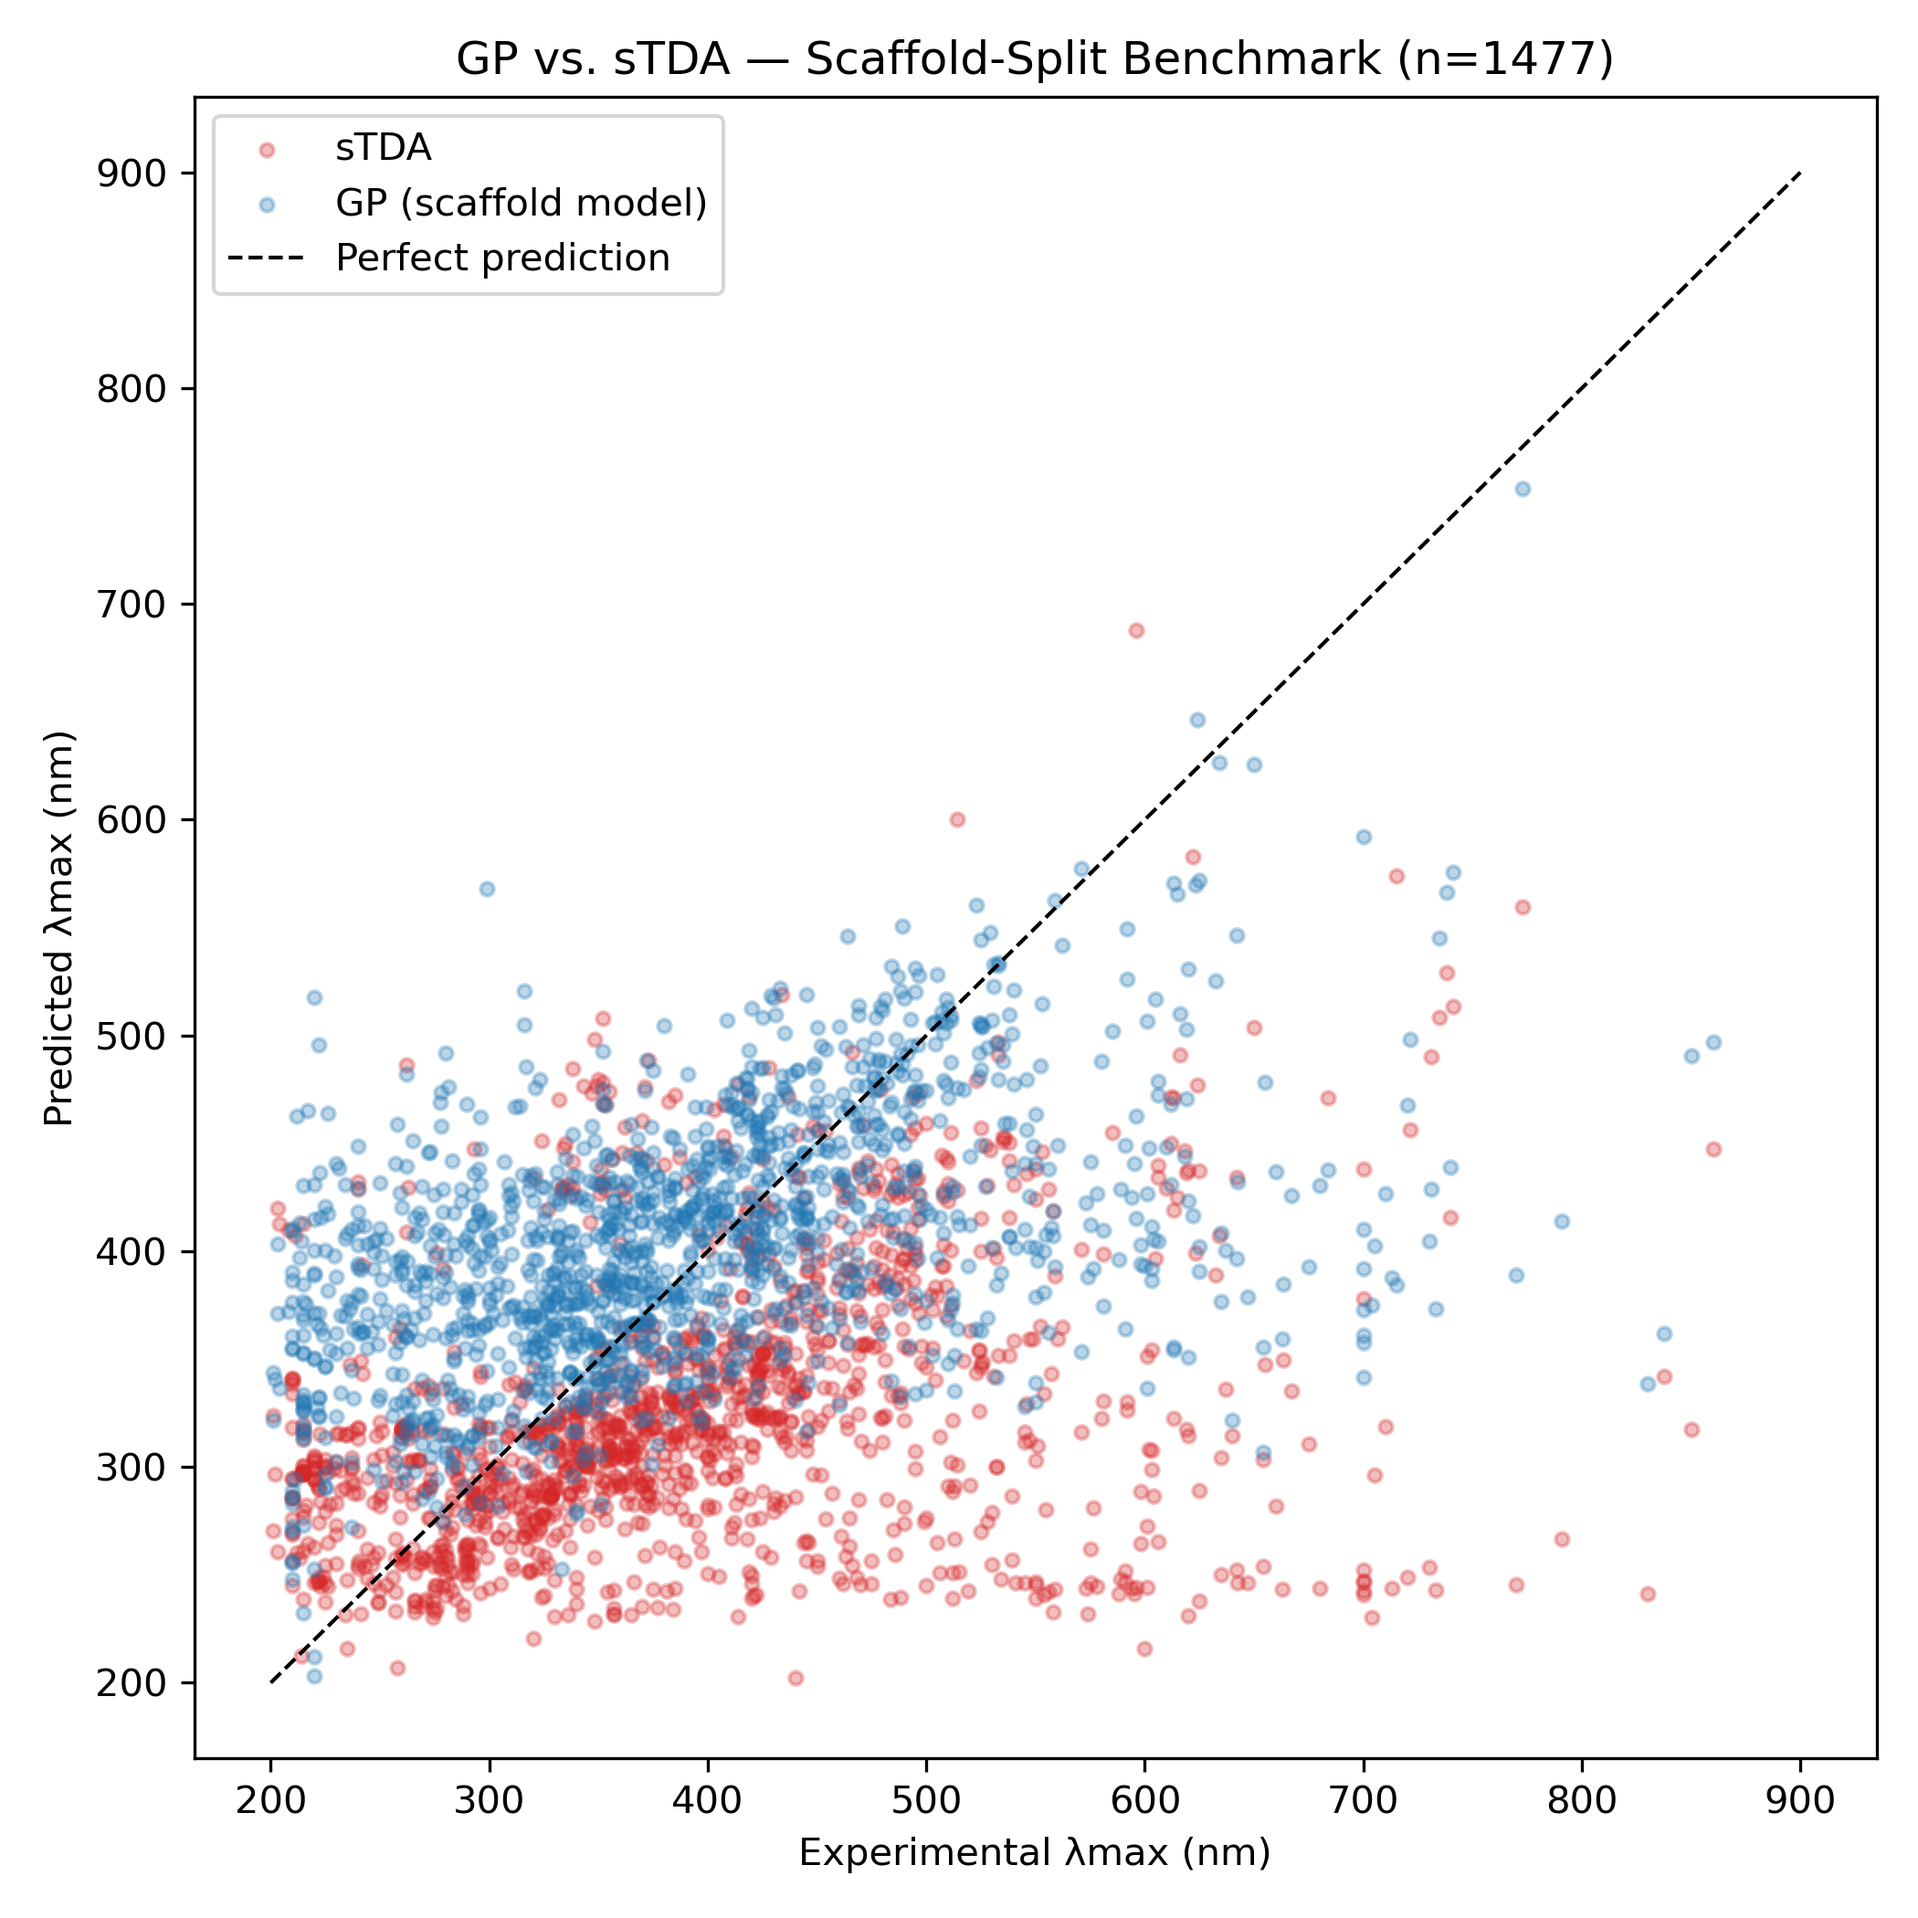
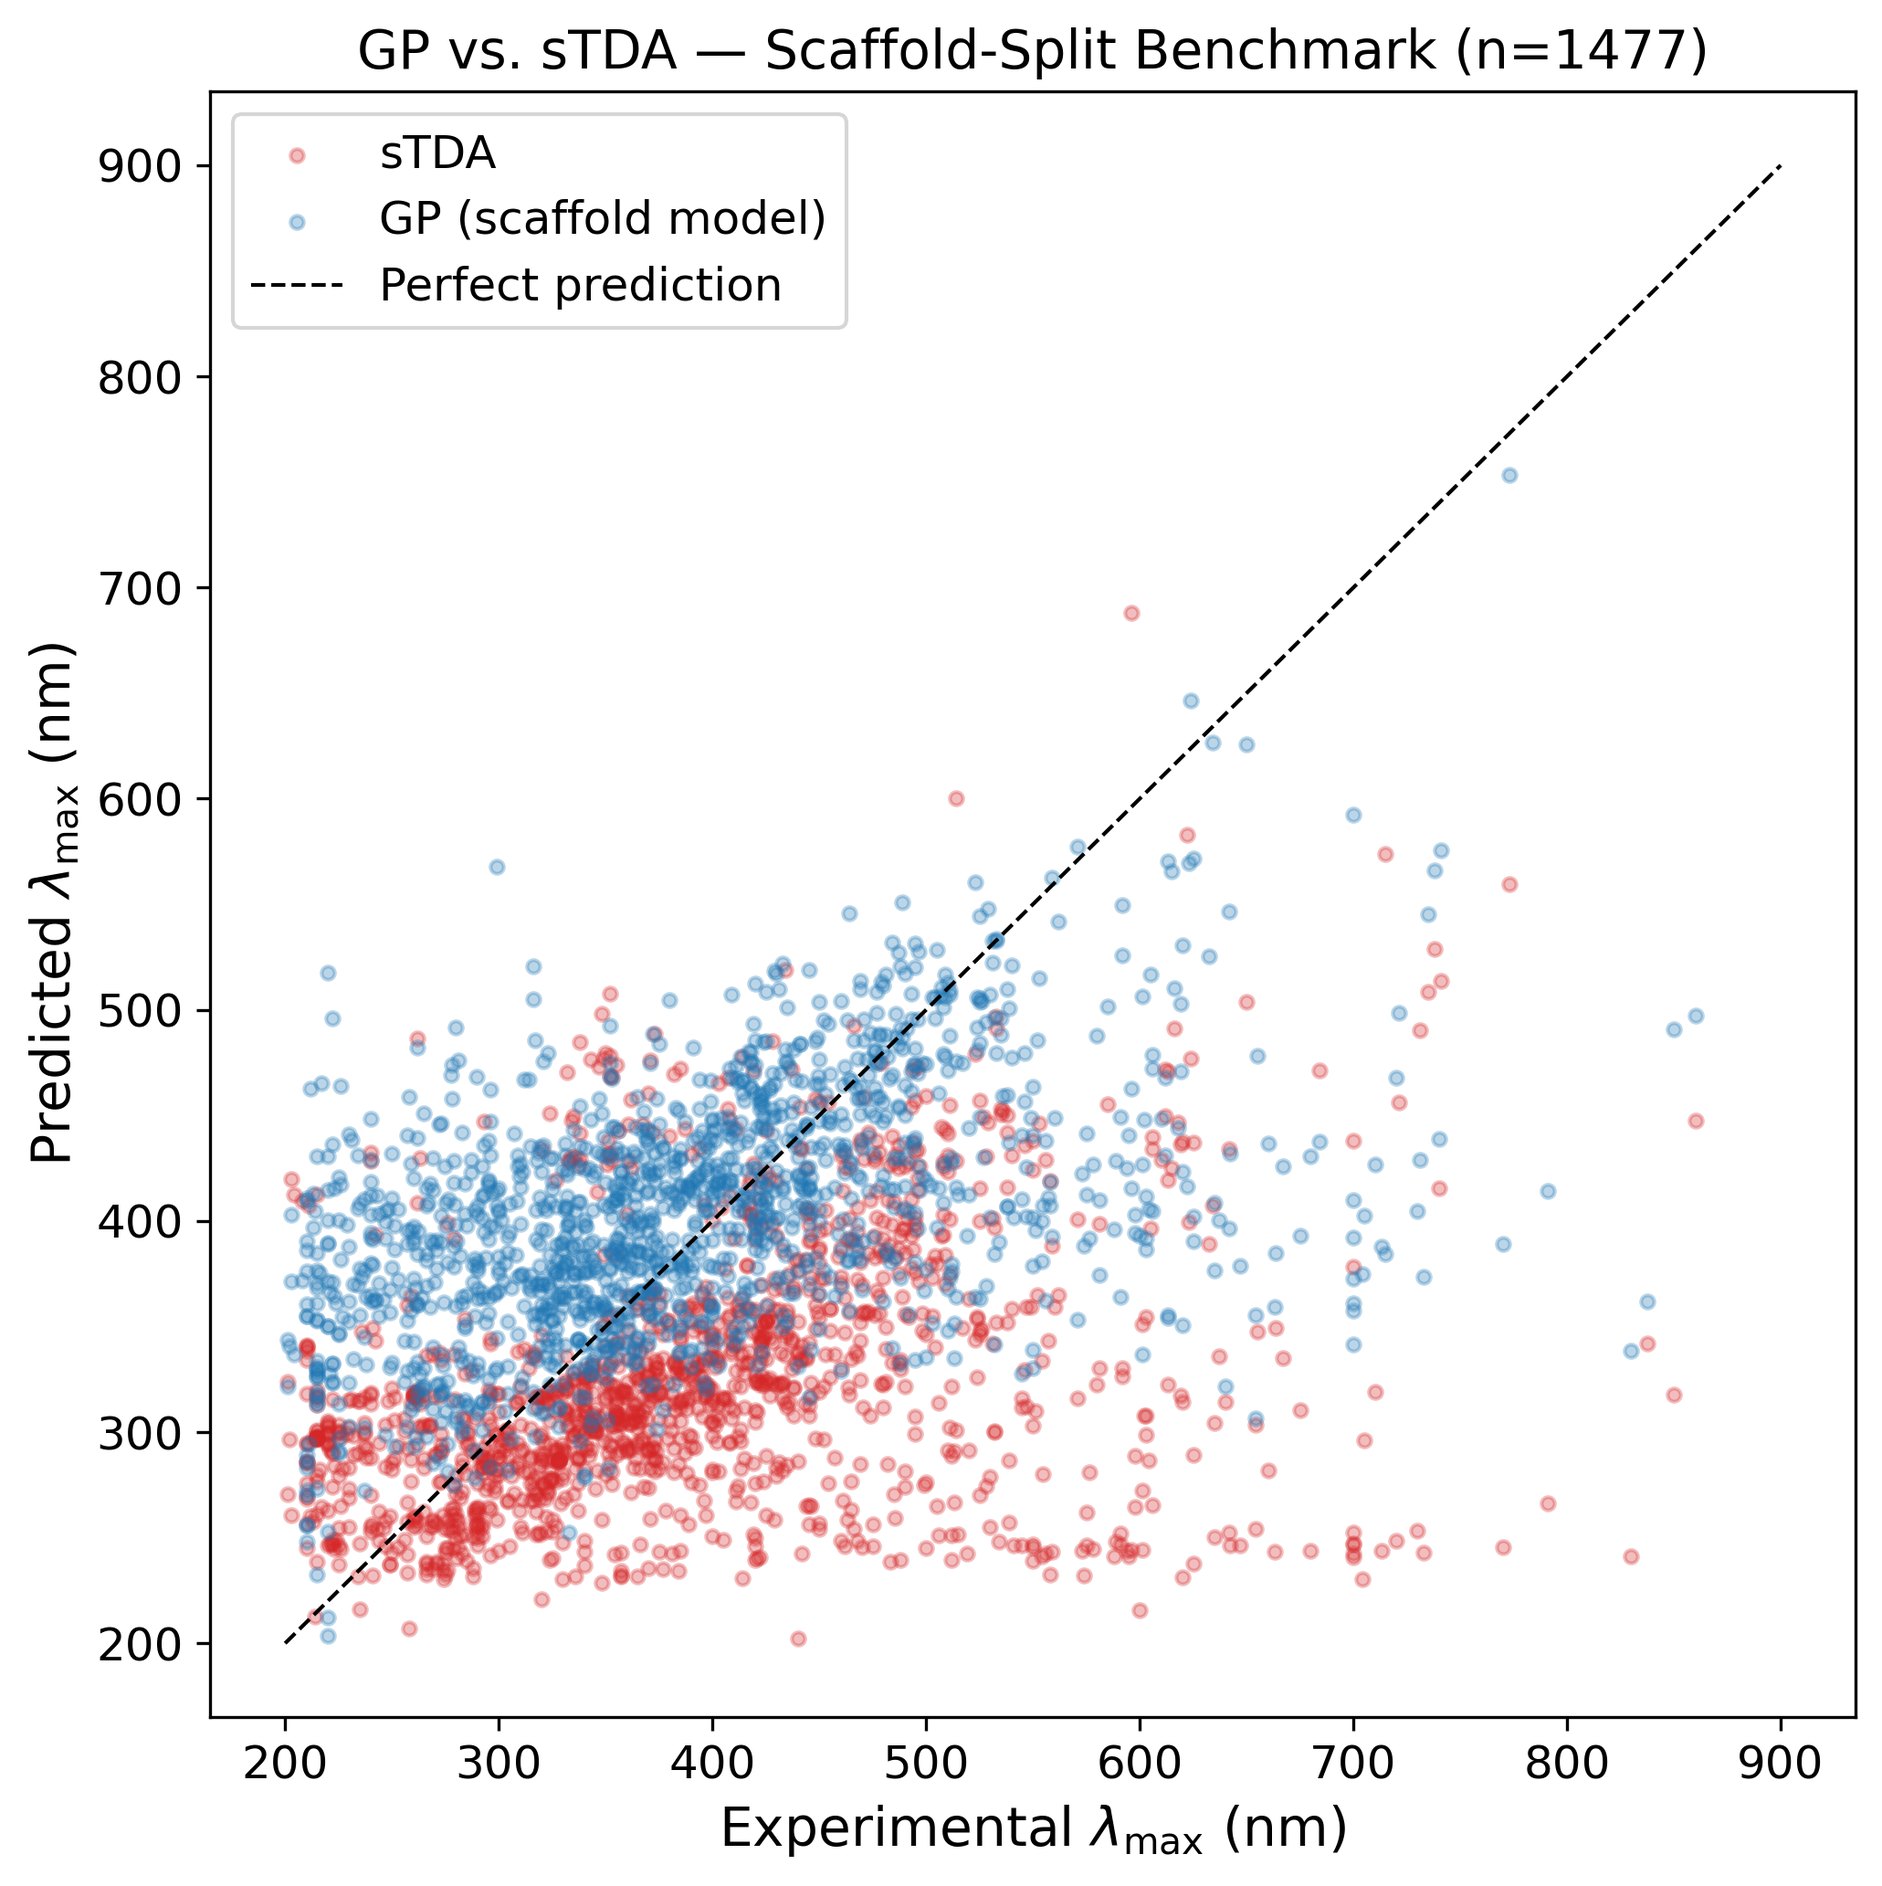
Align public title and scaffold figures with final JCIM manuscript.

diff --git a/REPRODUCIBILITY_REPORT.md b/REPRODUCIBILITY_REPORT.md
@@ -2,7 +2,7 @@
 
 **Project:** Gaussian Process prediction of experimental UV-Vis λ<sub>max</sub> (Beard et al. 2019 corpus)  
 **Repository:** https://github.com/drsahanawaz/Bayesian_model  
-**Manuscript:** *Gaussian Processes λmax Prediction Exceeds TD-DFT Accuracy* (JCIM target)  
+**Manuscript:** *Gaussian Process λmax Prediction Outperforms TD-DFT Benchmarks* (JCIM target)  
 **Report date:** 21 August 2026  
 **Environment:** local macOS; conda env `chemo_env`  
 **Result:** all manuscript-critical numerical claims reproduced under `random_state = 42`.

diff --git a/README.md b/README.md
@@ -2,7 +2,7 @@
 
 Analysis code accompanying the manuscript:
 
-> **Gaussian Processes λ<sub>max</sub> Prediction Exceeds TD-DFT Accuracy**  
+> **Gaussian Process λ<sub>max</sub> Prediction Outperforms TD-DFT Benchmarks**  
 > Md Sahanawaz — Sheikhpara ARM Polytechnic  
 > Intended venue: *Journal of Chemical Information and Modeling* (ACS)
 
